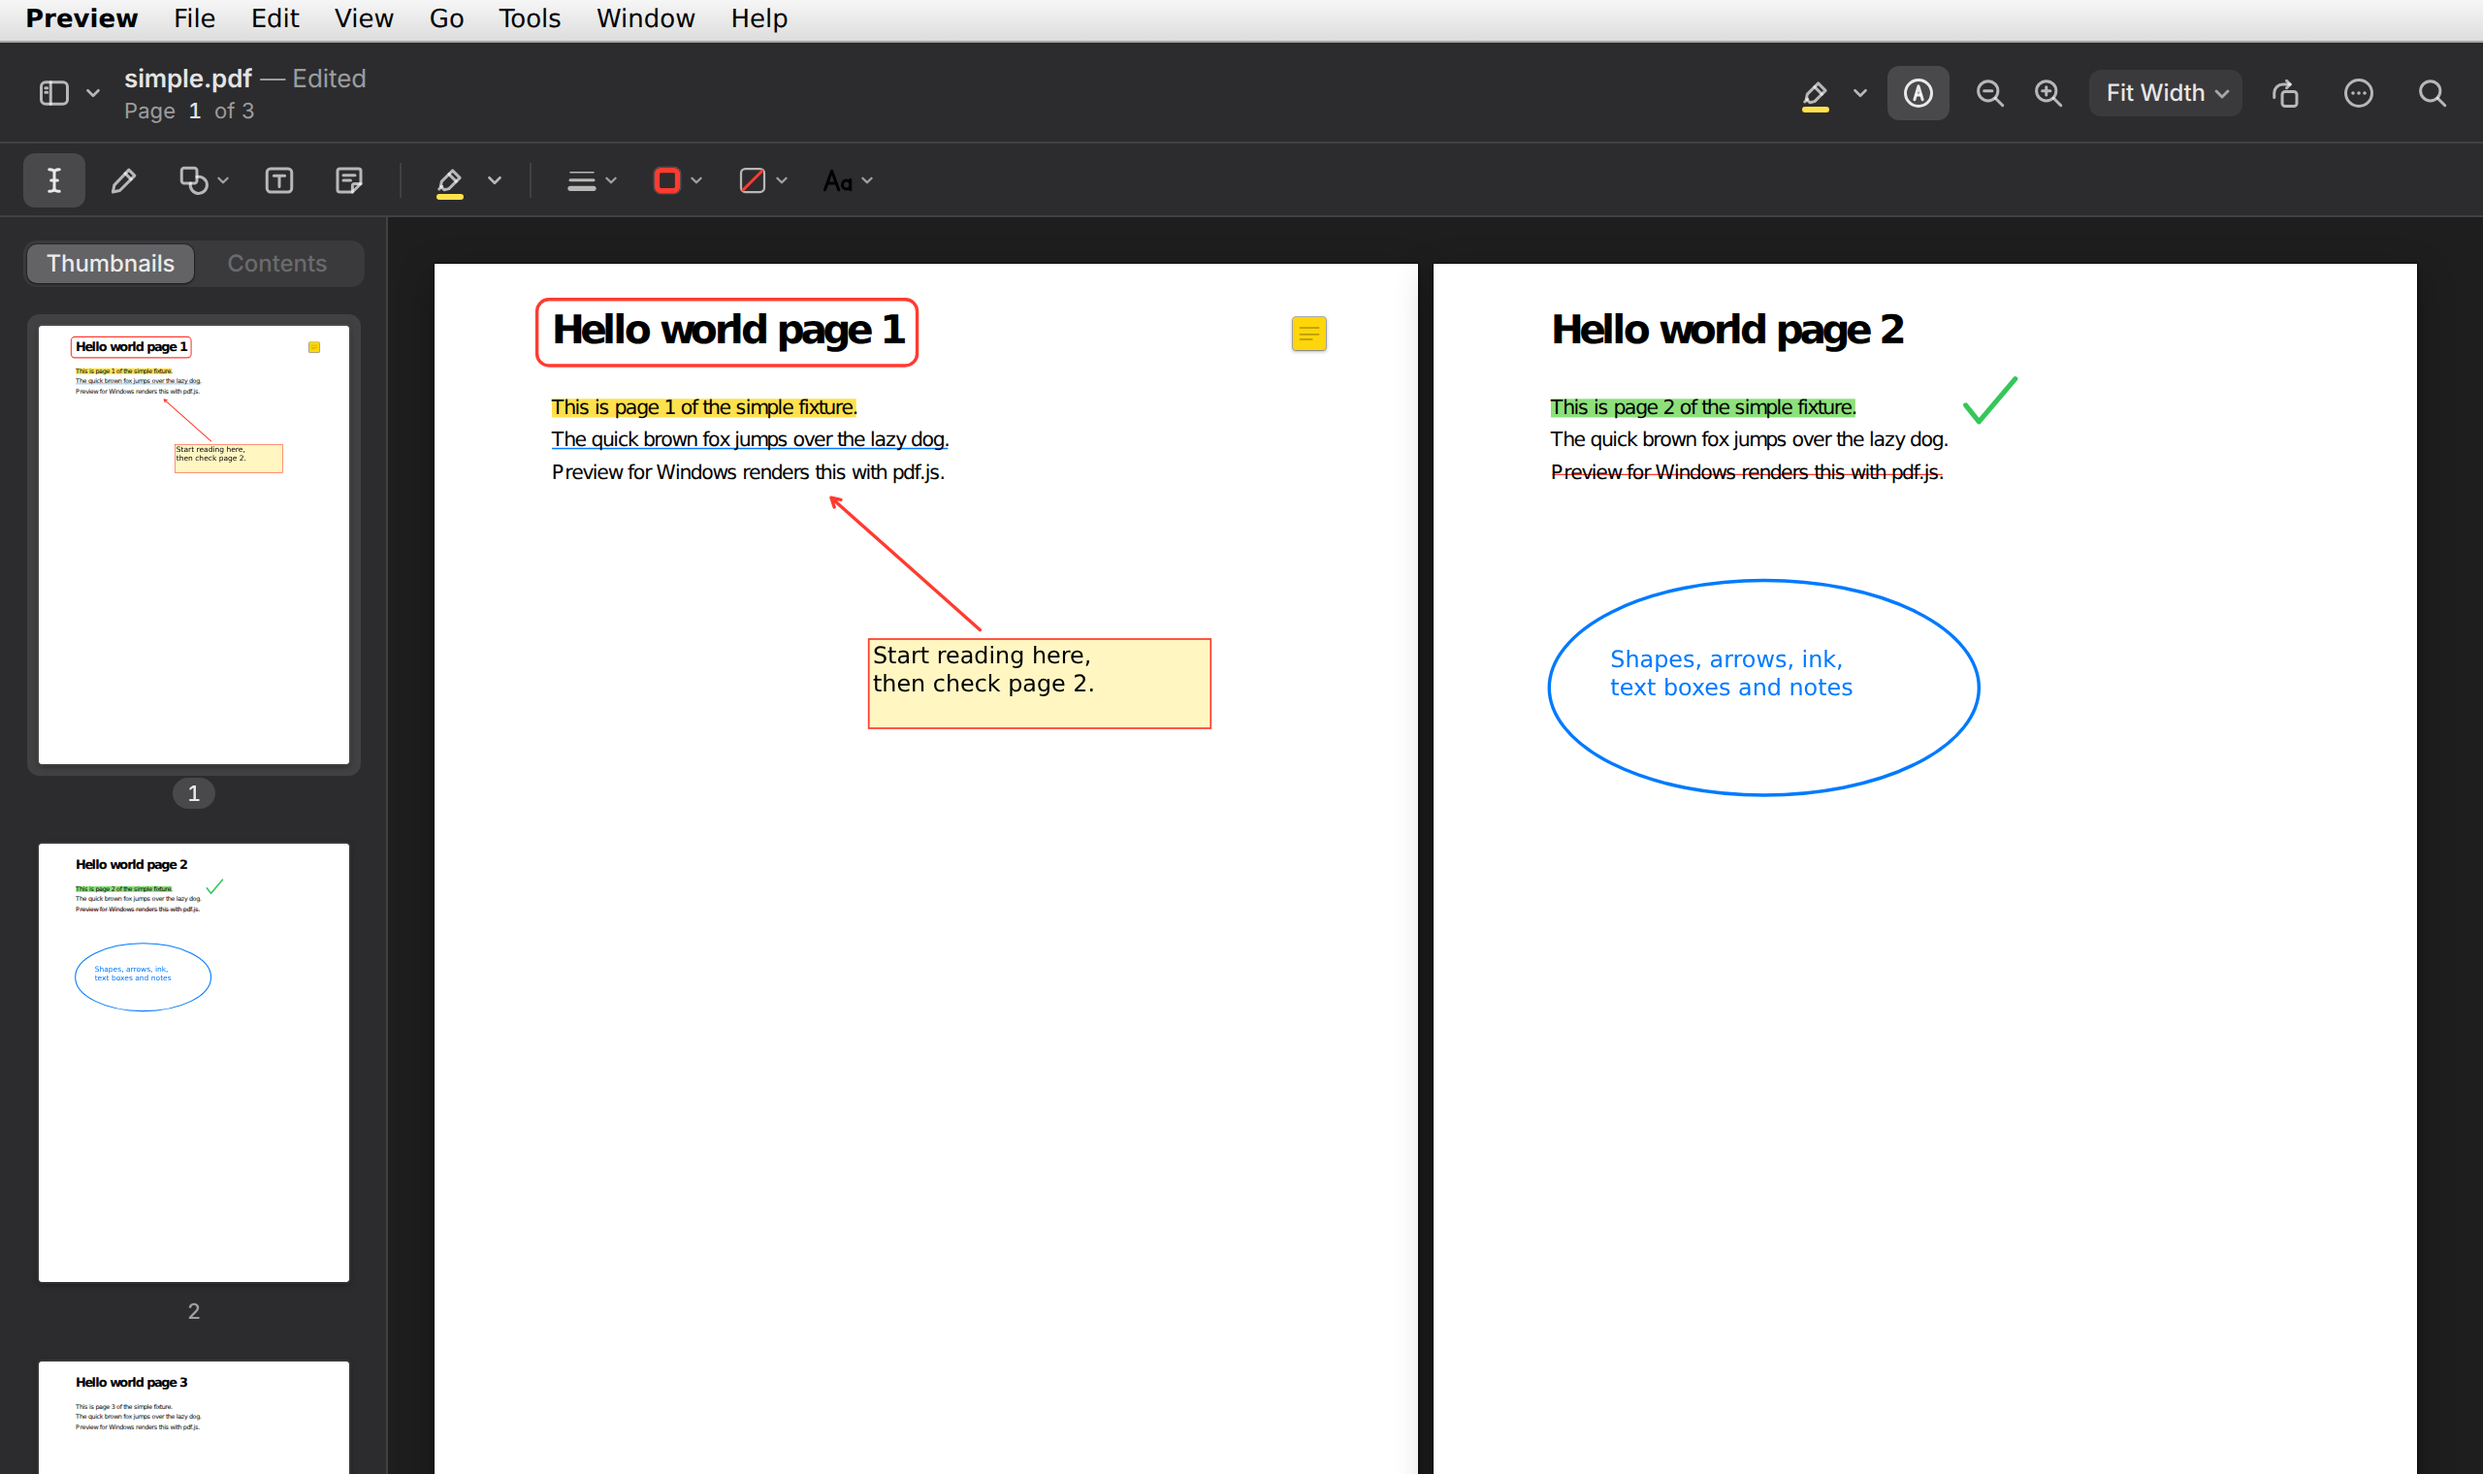
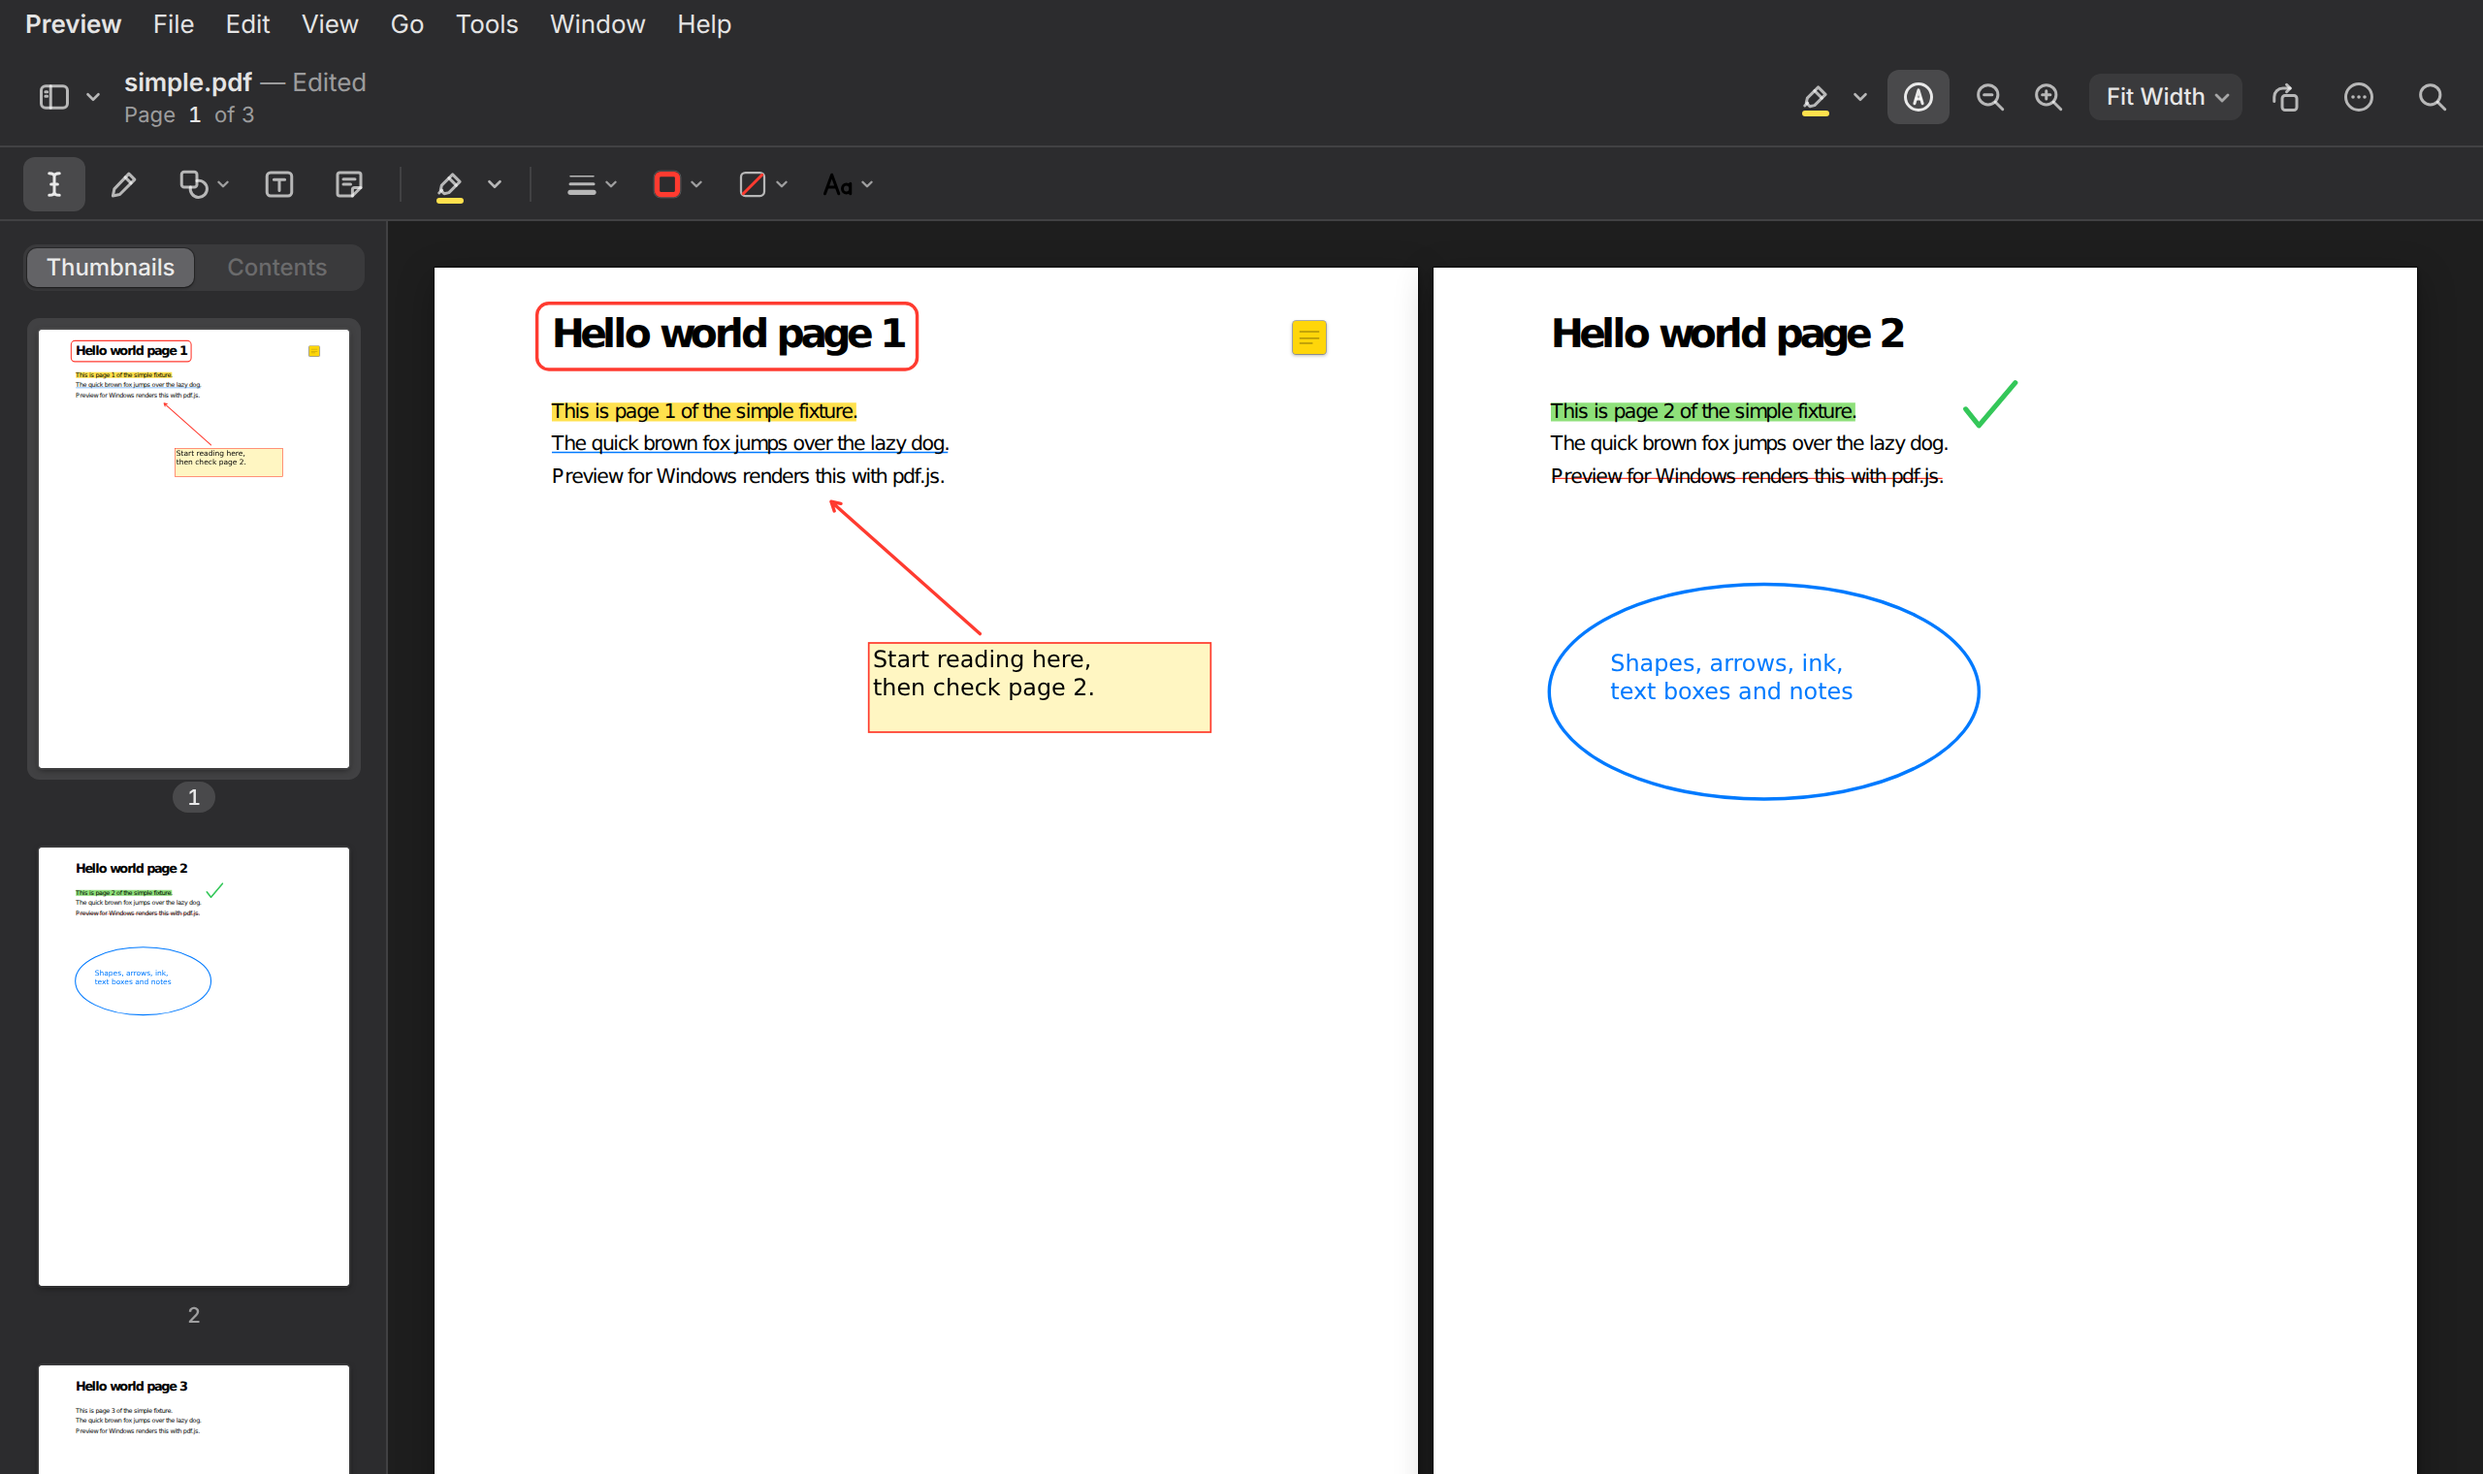
release: 0.4.1 with the menu bar and Settings in the modern macOS look
Drops the unused Mac OS X Lion tokens and comments, updates the README,
the tech stack and the screenshots.

diff --git a/src/styles.css b/src/styles.css
@@ -9,20 +9,6 @@
 
 /* ---- theme tokens (macOS Sonoma Preview) ---------------------------- */
 :root {
-  /* Mac OS X Lion (10.7) look for the in-window menu bar, its menus and the Settings window.
-     Lucida Grande was Lion's UI font; Windows ships its sibling Lucida Sans Unicode. */
-  --lion-font: "Lucida Grande", "Lucida Sans Unicode", "Lucida Sans", Geneva, Verdana, sans-serif;
-  --lion-bar-top: #f6f6f6;
-  --lion-bar-bottom: #dcdcdc;
-  --lion-bar-border: #a7a7a7;
-  --lion-menu-bg: rgba(255, 255, 255, 0.97);
-  --lion-menu-border: rgba(0, 0, 0, 0.22);
-  --lion-select-top: #648af5;
-  --lion-select-bottom: #2b58df;
-  --lion-text: #000000;
-  --lion-text-disabled: #a6a6a6;
-  --lion-window-top: #ebebeb;
-  --lion-window-bottom: #cfcfcf;
   color-scheme: light dark;
   --font: "Inter", "Malgun Gothic", system-ui, sans-serif;
   --caption-font: "Segoe Fluent Icons", "Segoe MDL2 Assets";

diff --git a/src/menubar/menus.ts b/src/menubar/menus.ts
@@ -16,7 +16,7 @@ export interface MenuSpec {
 
 const _ = SEPARATOR;
 
-/** Mac OS X Lion Preview's menus, with Windows access keys. */
+/** Preview's menus, with Windows access keys. */
 export const MENUS: readonly MenuSpec[] = [
   { title: 'Preview', key: 'p', app: true, items: ['app.about', _, 'app.preferences', _, 'file.close'] },
   { title: 'File', key: 'f', items: ['file.open', _, 'file.close', 'file.save', 'file.saveAs', _, 'file.print'] },

diff --git a/src/app.ts b/src/app.ts
@@ -255,7 +255,7 @@ export class App {
     return s.status === 'ready' && s.numPages > 0 && this.doc !== null;
   }
 
-  /** Settings (Ctrl+,): the Lion-style preferences window. */
+  /** Settings (Ctrl+,): the preferences window. */
   openPreferences(): void {
     this.settingsWindow.open();
   }

diff --git a/README.md b/README.md
@@ -9,10 +9,10 @@ annotations.
 
 <picture>
   <source media="(prefers-color-scheme: dark)" srcset="docs/screenshot-dark.png">
-  <img alt="The Lion-style menu bar above a document in Two Pages, with the thumbnail sidebar and the markup toolbar open, showing a highlight, an underline, a strikethrough, a rounded rectangle, an arrow, a text box, a note, an oval and a freehand check mark" src="docs/screenshot.png">
+  <img alt="The menu bar above a document in Two Pages, with the thumbnail sidebar and the markup toolbar open, showing a highlight, an underline, a strikethrough, a rounded rectangle, an arrow, a text box, a note, an oval and a freehand check mark" src="docs/screenshot.png">
 </picture>
 
-**Version 0.4.0** · Windows 10 and 11, x64 · portable `Preview.exe` (about 7 MB) or a
+**Version 0.4.1** · Windows 10 and 11, x64 · portable `Preview.exe` (about 7 MB) or a
 per-user installer (about 4.6 MB) · no network access, no telemetry.
 
 ## Contents
@@ -80,18 +80,18 @@ per-user installer (about 4.6 MB) · no network access, no telemetry.
   they use. Reopening a file saved by this app makes its annotations editable again;
   annotations made by other apps are shown and kept, but not editable.
 
-**Menu bar and Settings**, in the style of Mac OS X Lion
+**Menu bar and Settings**
 
-- A menu bar inside the window (Preview, File, Edit, View, Go, Tools, Window, Help) set in
-  Lucida, with every feature of the app in it. Click a title and slide across the others
+- A menu bar inside the window (Preview, File, Edit, View, Go, Tools, Window, Help),
+  continuous with the toolbar like a macOS title bar, with every feature of the app in it. Click a title and slide across the others
   like on a Mac, or use the keyboard like on Windows: `Alt` or `F10` focuses the bar,
   `Alt`+underlined letter opens a menu, arrows move, `Enter` runs. View › Menu Bar hides
   it; `Alt` still brings it back. Help › Keyboard Shortcuts lists every shortcut.
-- Settings… (`Ctrl+,`) opens a Lion preferences window with General, Markup and Window
+- Settings… (`Ctrl+,`) opens a macOS-style Settings window with General, Markup and Window
   panes: default zoom for new files, page layout and Book Mode, showing the sidebar when
   a document opens, remembering each file's position, the default highlight color, shape
   color, line width and text size, and showing the menu bar. Changes apply at once.
-- The menu bar and Settings stay light in the dark theme, as Lion had no dark mode.
+- Both follow the light and dark theme like the rest of the window.
 
 **Looks like a Mac app**
 
@@ -153,7 +153,7 @@ A build produces two files:
 | Reading PDFs | [pdf.js](https://mozilla.github.io/pdf.js/) 6.4 (`pdfjs-dist`), assets bundled for offline use |
 | Writing PDFs | `@cantoo/pdf-lib` 2.11 and `@cantoo/fontkit` 2.0 (Malgun Gothic subsets) |
 | Build | Cross-compiled from Linux/WSL2 with cargo-xwin, clang-cl and lld-link; NSIS installer |
-| Tests | Vitest 5 (499 unit tests), Playwright 1.64 (242 end-to-end tests), PDFium checks of saved files, WebView2 DevTools checks of the real exe |
+| Tests | Vitest 5 (508 unit tests), Playwright 1.64 (255 end-to-end tests), PDFium checks of saved files, WebView2 DevTools checks of the real exe |
 
 Versions, licenses, the reasons behind each choice and how the tests are layered are in
 [docs/tech-stack.md](docs/tech-stack.md).
@@ -237,9 +237,9 @@ src-tauri/          Tauri 2 shell (Rust): file read/write, startup file, dialogs
 src/app.ts          wires platform, store and components; open/save/close flows; shortcut dispatch;
                     registers every feature as a command
 src/commands.ts     the command registry menus are built from
-src/menubar/        the in-window menu bar: menus as lists of command ids, Lion drop-downs,
+src/menubar/        the in-window menu bar: menus as lists of command ids, drop-downs,
                     keyboard handling, the Keyboard Shortcuts panel
-src/settings/       the settings model (localStorage) and the Lion Settings window
+src/settings/       the settings model (localStorage) and the Settings window
 src/store.ts        app state with subscriptions
 src/viewer/         virtualised page view (continuous and two pages) + pure layout and zoom math
 src/pdf/            pdf.js document wrapper, cancellable page renderer, text layer
@@ -274,7 +274,8 @@ Each feature has a design document in `docs/superpowers/specs/` and a plan in
 | 0.3.1 – 0.3.3 | 2026-10-26 – 27 | App icon from the author's artwork, splash and About window |
 | 0.3.4 | 2026-10-27 | Photographic splash with the name set in EB Garamond |
 | 0.3.5 | 2026-10-27 | Square corners on the splash and the About window |
-| 0.4.0 | 2026-10-27 | In-window menu bar and Settings window in the style of Mac OS X Lion; every feature is a named command |
+| 0.4.0 | 2026-10-27 | In-window menu bar and Settings window (first in the style of Mac OS X Lion); every feature is a named command |
+| 0.4.1 | 2026-10-27 | Menu bar, its menus, Keyboard Shortcuts and Settings restyled to match the modern macOS look of the rest of the window, with dark mode |
 
 ## Credits and licenses
 

diff --git a/docs/tech-stack.md b/docs/tech-stack.md
@@ -6,7 +6,7 @@ interface, and a TypeScript app reads, renders and writes PDFs with pdf.js and p
 Everything is built on Linux (WSL2) and cross-compiled for Windows.
 
 Versions are the ones locked in `package-lock.json` and `src-tauri/Cargo.lock` as of
-release 0.4.0.
+release 0.4.1.
 
 ```
 Preview.exe  (Rust, Tauri 2; about 7 MB, portable)
@@ -35,7 +35,6 @@ Preview.exe  (Rust, Tauri 2; about 7 MB, portable)
 | PDF writing | `@cantoo/pdf-lib` | 2.11.1 | Saving edited documents and annotations; a maintained pdf-lib fork that also reads encrypted files | MIT |
 | Fonts in PDFs | `@cantoo/fontkit` | 2.0.12 | Subsets Malgun Gothic for text boxes (`@pdf-lib/fontkit` crashed on `malgun.ttf`) | MIT |
 | UI font | Inter (variable) | bundled | Interface text, with Malgun Gothic for Hangul | SIL OFL 1.1 (`src/assets/fonts/OFL.txt`) |
-| Menu bar font | Lucida Sans Unicode | system | The Mac OS X Lion menu bar and Settings window (Lion used Lucida Grande, which Windows does not have) | Microsoft, part of Windows |
 
 Annotations are drawn by the app's own overlays and saved as standard PDF annotations
 with appearance streams, so Acrobat, Edge, Chrome and Mac Preview show them as drawn.
@@ -79,8 +78,8 @@ whole build.
 
 | Layer | Tool | What it covers |
 | --- | --- | --- |
-| Unit | Vitest 5.0.5 (499 tests, 29 files) | Layout and zoom math, search, shortcuts, page composition and undo history, outline remapping, annotation geometry, appearance streams, writer and reader, preferences, commands |
-| End to end | Playwright 1.64.1 (242 tests) | The built app in headless Chromium through a browser platform shim (`src/platform/browser.ts`): opening, viewing, page editing, saving, markup, menus, dialogs. Each worktree runs on its own `PW_PORT` |
+| Unit | Vitest 5.0.5 (508 tests, 29 files) | Layout and zoom math, search, shortcuts, page composition and undo history, outline remapping, annotation geometry, appearance streams, writer and reader, preferences, commands |
+| End to end | Playwright 1.64.1 (255 tests) | The built app in headless Chromium through a browser platform shim (`src/platform/browser.ts`): opening, viewing, page editing, saving, markup, menus, dialogs. Each worktree runs on its own `PW_PORT` |
 | Other viewers | PDFium via pypdfium2 (`scripts/pdfium-render.py`) | Saved annotations render in Chrome and Edge's engine where they were drawn, also on rotated pages |
 | Real Windows | `scripts/cdp-windows.ps1` | Drives the real `Preview.exe` through WebView2's DevTools protocol with its own profile, without touching the user's desktop |
 | Fixtures | reportlab (`scripts/make-fixtures.py`) | Mixed page sizes, 300 pages, outline, links, encrypted and broken files, a Korean document |
